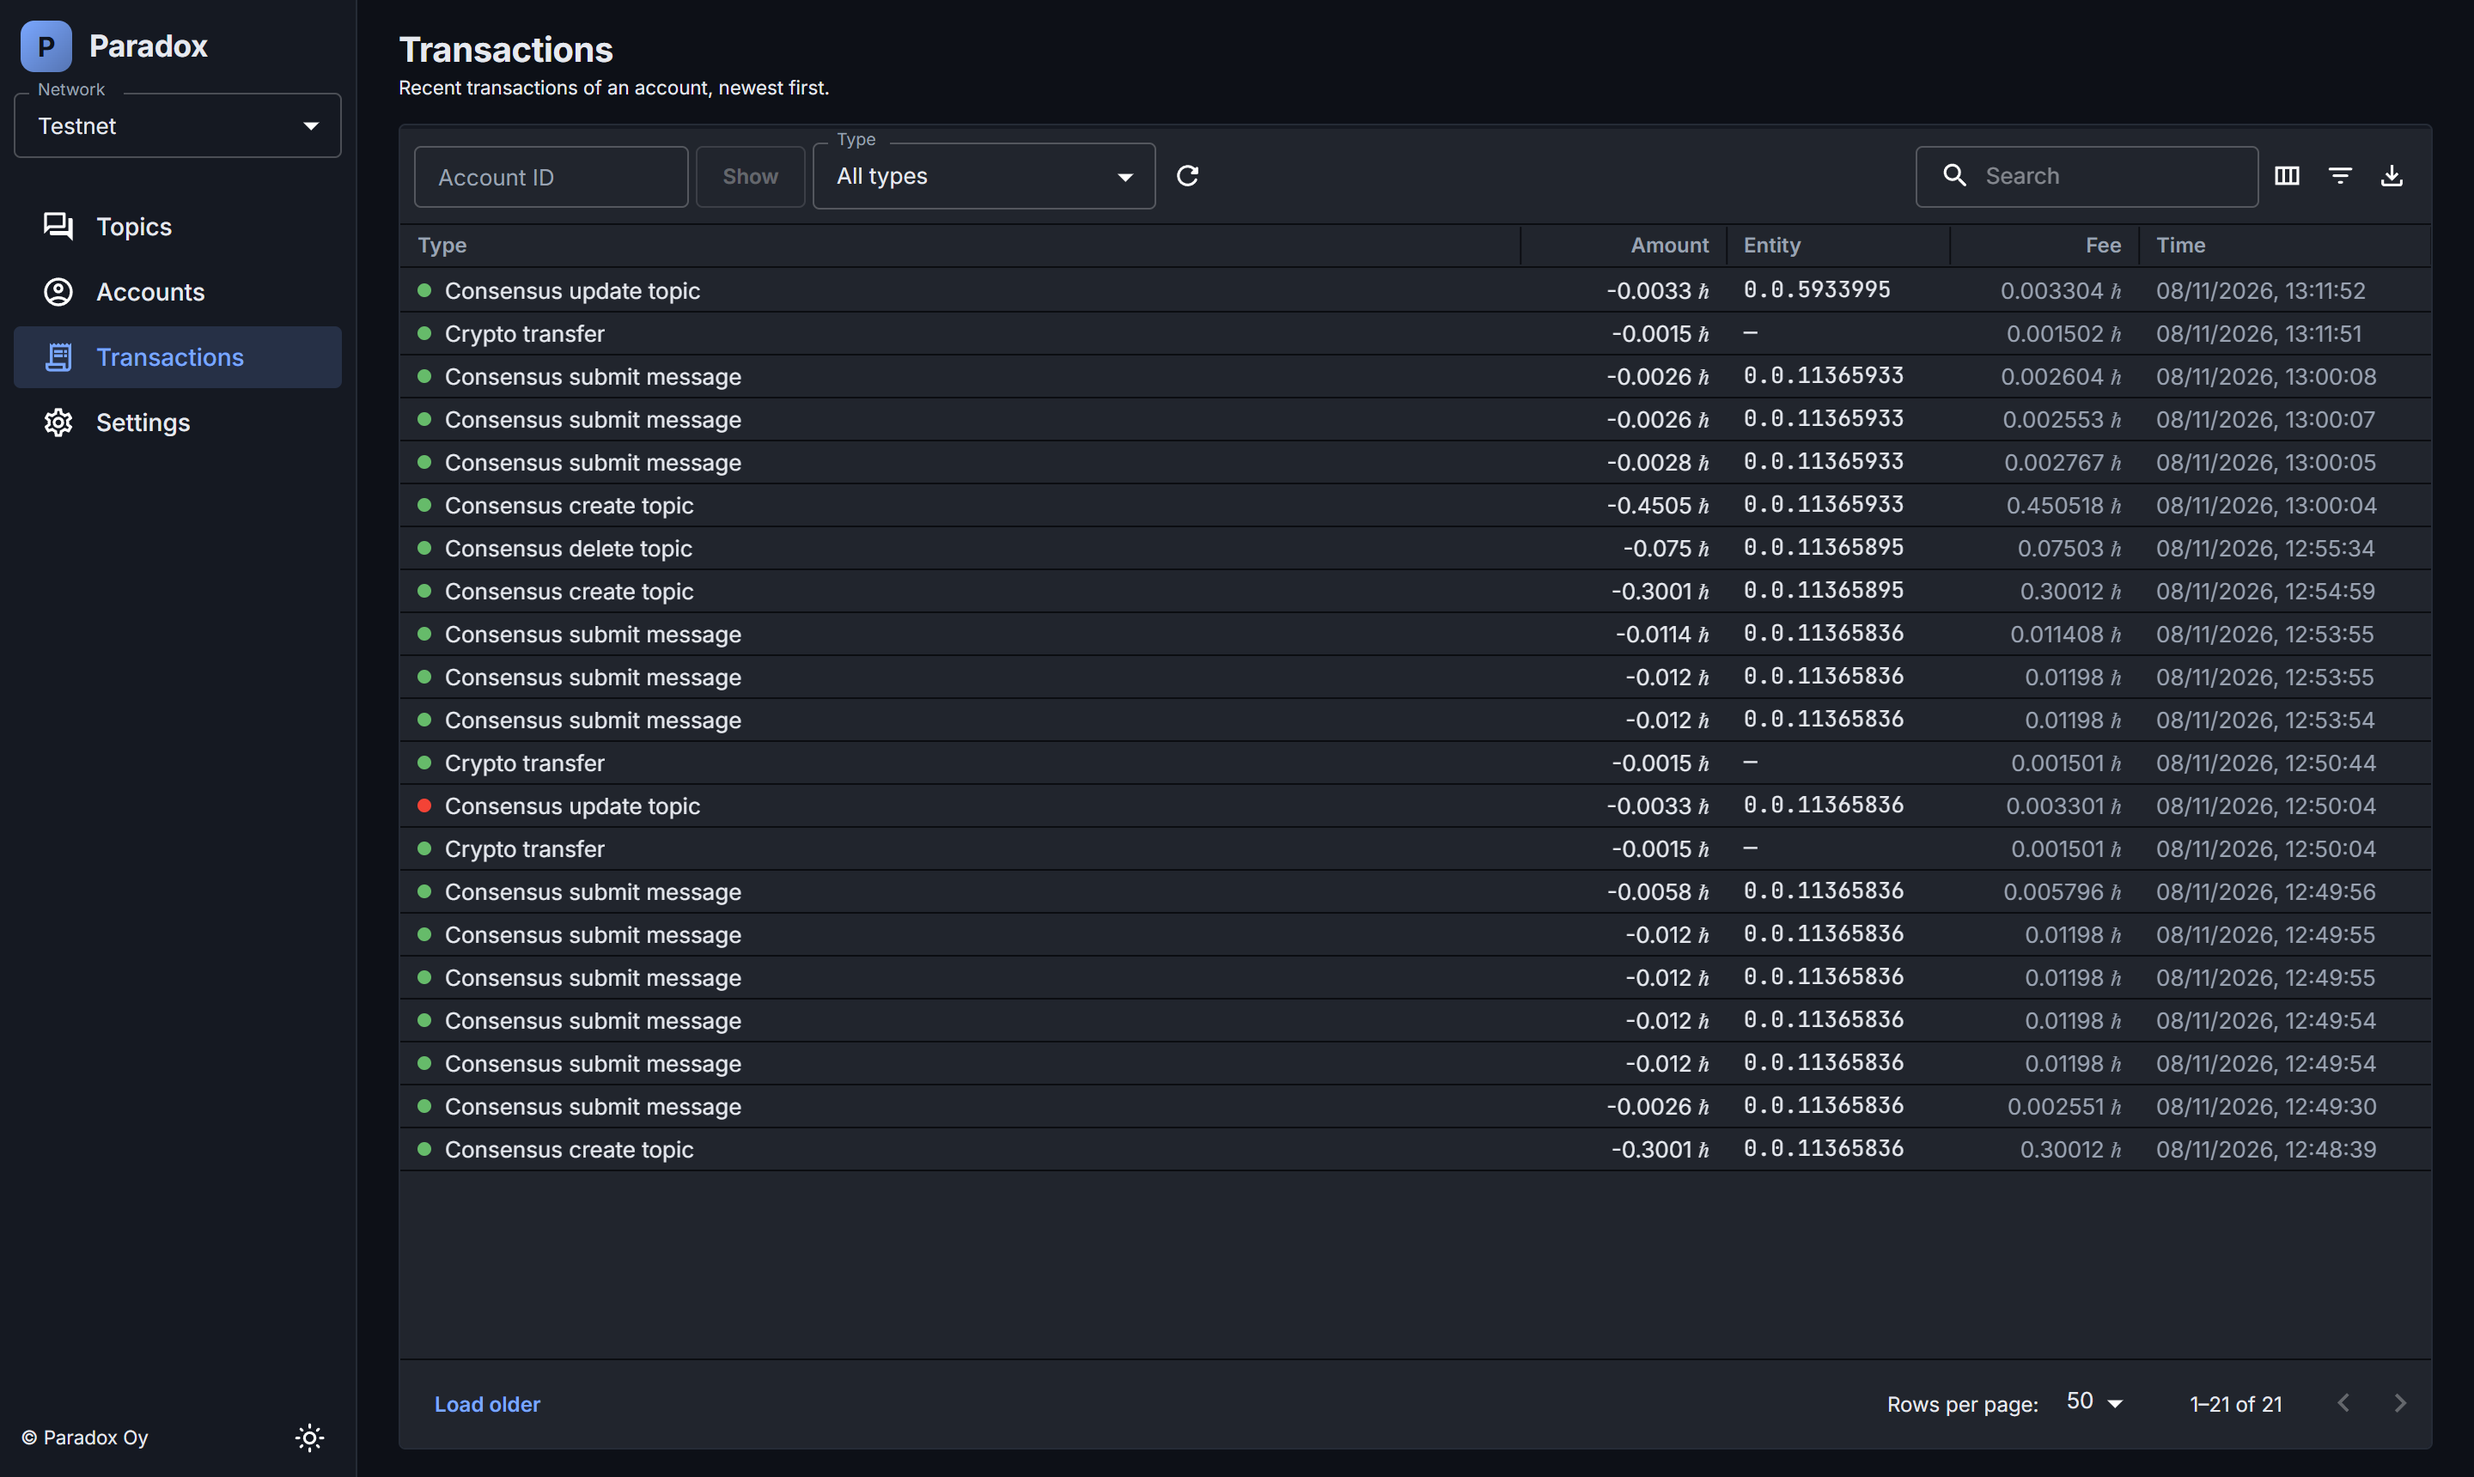
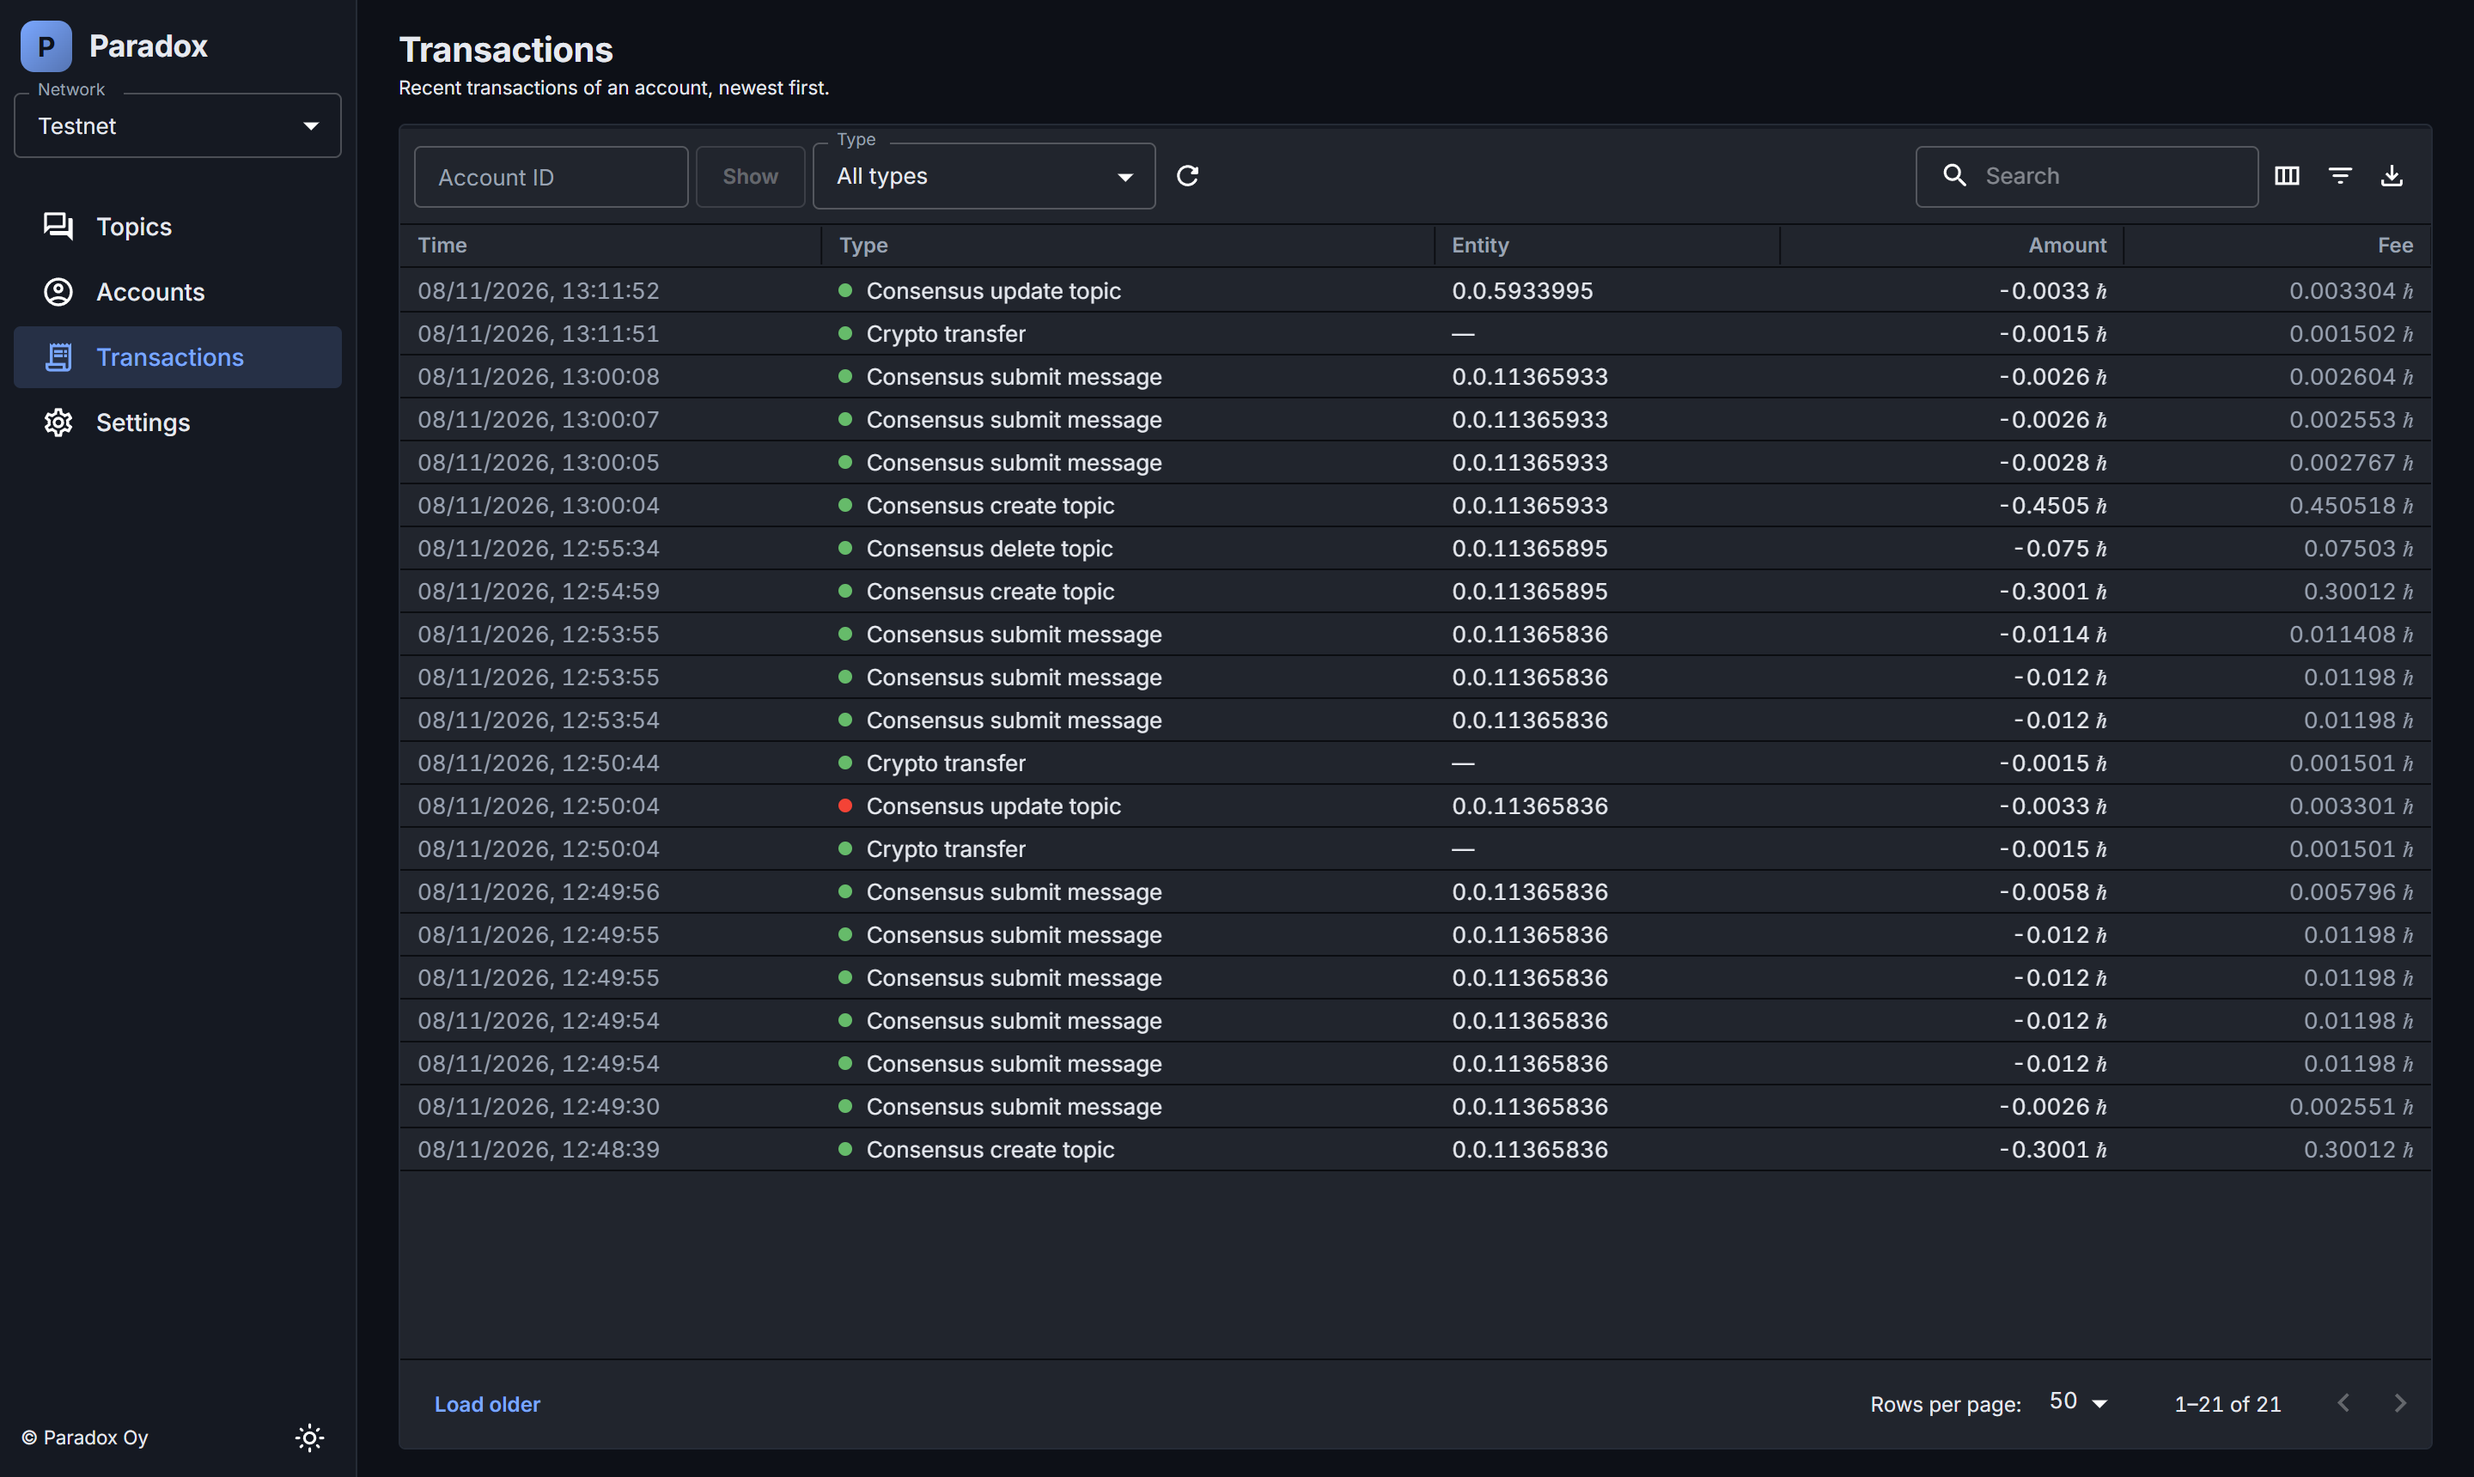
Align grid columns: text left, numbers grouped right
- Transactions: Time, Type, Entity, then Amount and Fee right-aligned
- Proportional column widths instead of one column absorbing all space
- Tabular numerals instead of a monospace font so ids, amounts and dates
  share one baseline; row actions right-aligned
- Refreshed README screenshots

diff --git a/src/components/transactions/TransactionTable.tsx b/src/components/transactions/TransactionTable.tsx
@@ -72,14 +72,25 @@ export const TransactionTable = ({ transactions, accountId, network, loading, on
 
     const columns = useMemo<GridColDef<Row>[]>(
         () => [
+            // Text columns on the left, numbers grouped on the right; widths are proportional.
+            {
+                field: "time",
+                headerName: "Time",
+                type: "dateTime",
+                flex: 1.1,
+                minWidth: 150,
+                valueGetter: (_value, row) => consensusToDate(row.consensus_timestamp),
+                renderCell: ({ row }) => formatTimestamp(row.consensus_timestamp, true),
+                cellClassName: "secondary",
+            },
             {
                 field: "name",
                 headerName: "Type",
-                flex: 1,
+                flex: 1.6,
                 minWidth: 150,
                 valueGetter: (value: string) => formatTransactionType(value),
                 renderCell: ({ row, value }) => (
-                    <Box sx={{ display: "flex", alignItems: "center", height: "100%", minWidth: 0 }}>
+                    <Box sx={{ display: "flex", alignItems: "center", minWidth: 0 }}>
                         <StatusDot ok={row.result === "SUCCESS"} />
                         <Box sx={{ minWidth: 0, lineHeight: 1.3 }}>
                             <Typography variant="body2" noWrap>
@@ -95,10 +106,18 @@ export const TransactionTable = ({ transactions, accountId, network, loading, on
                 ),
             },
             {
+                field: "entity_id",
+                headerName: "Entity",
+                flex: 0.9,
+                minWidth: 110,
+                valueGetter: (value: string | null) => value ?? "—",
+            },
+            {
                 field: "net",
                 headerName: "Amount",
                 type: "number",
-                width: 120,
+                flex: 0.9,
+                minWidth: 110,
                 renderCell: ({ value }) => (
                     <Box component="span" sx={{ color: value > 0 ? "success.main" : value < 0 ? "text.primary" : "text.secondary" }}>
                         {value > 0 ? "+" : ""}
@@ -107,30 +126,15 @@ export const TransactionTable = ({ transactions, accountId, network, loading, on
                 ),
             },
             {
-                field: "entity_id",
-                headerName: "Entity",
-                width: 130,
-                cellClassName: "mono",
-                valueGetter: (value: string | null) => value ?? "—",
-            },
-            {
                 field: "charged_tx_fee",
                 headerName: "Fee",
                 type: "number",
-                width: 110,
+                flex: 0.8,
+                minWidth: 100,
                 renderCell: ({ value }) => formatHbar(value, 6),
                 cellClassName: "secondary",
             },
-            {
-                field: "time",
-                headerName: "Time",
-                type: "dateTime",
-                width: 170,
-                valueGetter: (_value, row) => consensusToDate(row.consensus_timestamp),
-                renderCell: ({ row }) => formatTimestamp(row.consensus_timestamp, true),
-                cellClassName: "secondary",
-            },
-            { field: "transaction_id", headerName: "Transaction ID", width: 260, cellClassName: "mono" },
+            { field: "transaction_id", headerName: "Transaction ID", width: 260 },
             { field: "result", headerName: "Result", width: 140 },
         ],
         [wide],

diff --git a/src/components/topics/TopicTable.tsx b/src/components/topics/TopicTable.tsx
@@ -31,9 +31,10 @@ export const TopicTable = ({ rows, loading, busyTopicId, onOpen, onExtend, onDel
             {
                 field: "id",
                 headerName: "Topic ID",
-                width: 112,
+                flex: 0.8,
+                minWidth: 110,
                 renderCell: ({ row }) => (
-                    <Typography variant="body2" className="mono" sx={{ textDecoration: row.topic?.deleted ? "line-through" : "none" }}>
+                    <Typography variant="body2" sx={{ textDecoration: row.topic?.deleted ? "line-through" : "none" }}>
                         {row.id}
                     </Typography>
                 ),
@@ -41,11 +42,11 @@ export const TopicTable = ({ rows, loading, busyTopicId, onOpen, onExtend, onDel
             {
                 field: "memo",
                 headerName: "Memo",
-                flex: 1,
+                flex: 2,
                 minWidth: 100,
                 valueGetter: (_value, row) => row.topic?.memo ?? "",
                 renderCell: ({ row }) => (
-                    <Stack direction="row" spacing={0.75} sx={{ alignItems: "center", minWidth: 0, height: "100%" }}>
+                    <Stack direction="row" spacing={0.75} sx={{ alignItems: "center", minWidth: 0 }}>
                         {row.error ? (
                             <Tooltip title={row.error}>
                                 <Chip size="small" color="error" variant="outlined" icon={<ErrorOutlineRounded />} label="Unavailable" />
@@ -75,7 +76,8 @@ export const TopicTable = ({ rows, loading, busyTopicId, onOpen, onExtend, onDel
                 field: "created",
                 headerName: "Created",
                 type: "dateTime",
-                width: 170,
+                flex: 1,
+                minWidth: 150,
                 valueGetter: (_value, row) => consensusToDate(row.topic?.created_timestamp),
                 renderCell: ({ row }) => formatTimestamp(row.topic?.created_timestamp),
                 cellClassName: "secondary",
@@ -83,6 +85,8 @@ export const TopicTable = ({ rows, loading, busyTopicId, onOpen, onExtend, onDel
             {
                 field: "actions",
                 type: "actions",
+                align: "right",
+                headerAlign: "right",
                 width: 72,
                 getActions: ({ row }) => {
                     const isAdmin = canWrite && !row.topic?.deleted && isOperatorKey(row.topic?.admin_key, serverConfig?.publicKey);

diff --git a/src/components/common/AppDataGrid.tsx b/src/components/common/AppDataGrid.tsx
@@ -98,6 +98,8 @@ export const AppDataGrid = <R extends GridValidRowModel>({ sx, slots, ...props }
                 border: 0,
                 borderRadius: 0,
                 fontSize: "0.8125rem",
+                // Tabular figures keep ids, amounts and dates aligned without a monospace font.
+                fontVariantNumeric: "tabular-nums",
                 "--DataGrid-containerBackground": (theme) => theme.palette.background.paper,
                 "& .MuiDataGrid-toolbar": {
                     flex: "0 0 auto",
@@ -109,6 +111,7 @@ export const AppDataGrid = <R extends GridValidRowModel>({ sx, slots, ...props }
                 },
                 "& .MuiDataGrid-cell": { display: "flex", alignItems: "center" },
                 "& .MuiDataGrid-cell--textRight": { justifyContent: "flex-end" },
+                "& .MuiDataGrid-cell > .MuiBox-root, & .MuiDataGrid-cell > .MuiStack-root": { minWidth: 0, maxWidth: "100%" },
                 "& .MuiDataGrid-columnHeaderTitle": { fontWeight: 600, fontSize: "0.75rem", color: "text.secondary" },
                 "& .MuiDataGrid-cell:focus, & .MuiDataGrid-cell:focus-within, & .MuiDataGrid-columnHeader:focus, & .MuiDataGrid-columnHeader:focus-within":
                     { outline: "none" },

diff --git a/src/components/common/layoutSx.ts b/src/components/common/layoutSx.ts
@@ -1,3 +1,2 @@
 /** A card that fills the remaining height; its table scrolls inside while toolbars stay put. */
 export const fillCardSx = { flex: 1, minHeight: 0, display: "flex", flexDirection: "column", overflow: "hidden" } as const;
-
